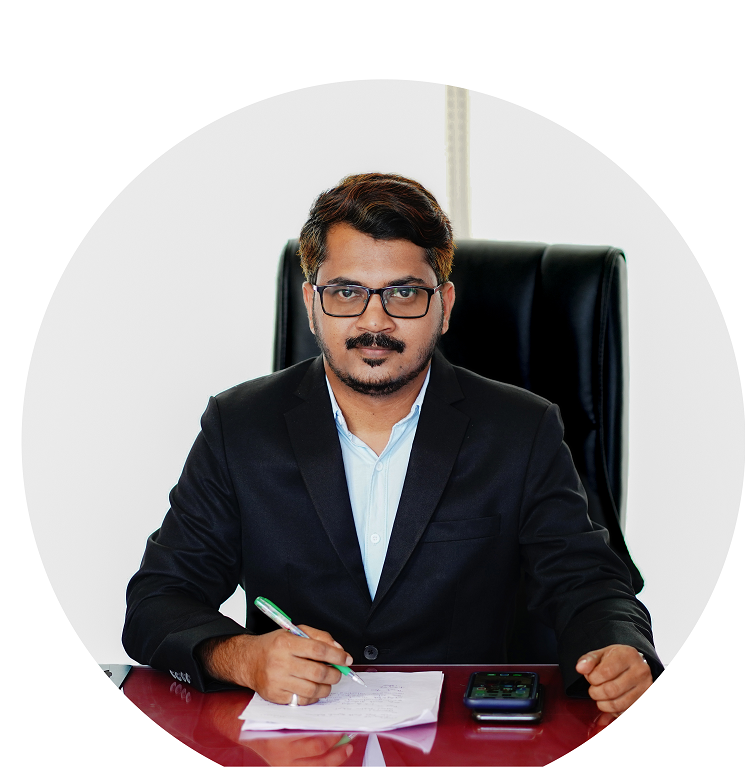
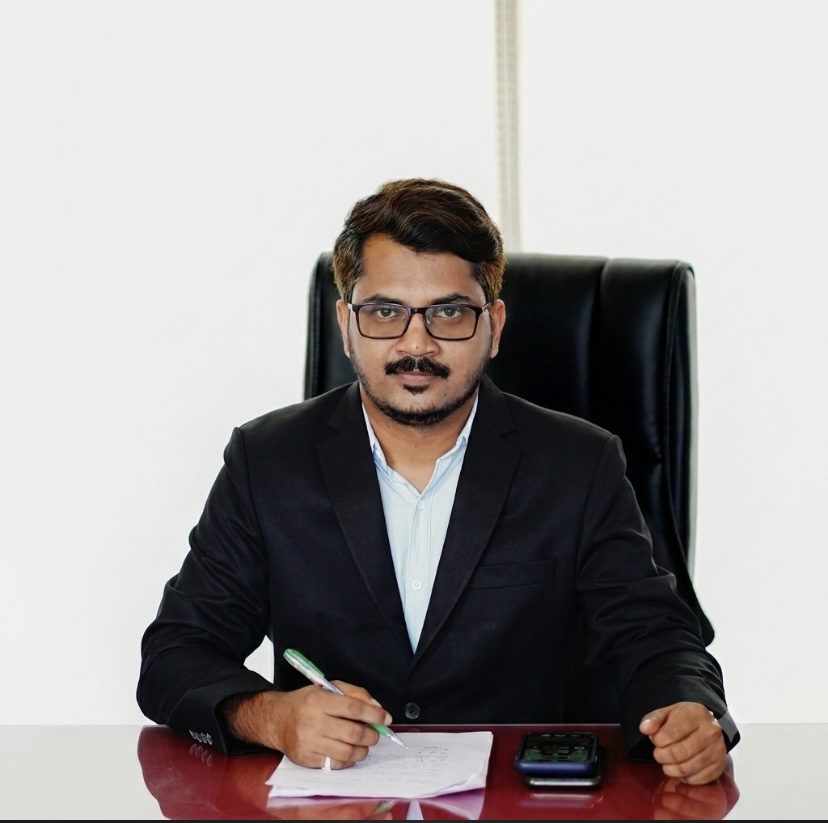
Update index.html minor text details and add generated invoice HTML and PDF

diff --git a/index.html b/index.html
@@ -2221,7 +2221,7 @@
               <div class="leader-highlights">
                 <span class="tag">12+ Yrs Experience</span>
                 <span class="tag">M.Sc. Psychology</span>
-                <span class="tag">M.Ed. &amp; B.Ed.</span>
+                <span class="tag">M. Ed. &amp; B.Ed.</span>
               </div>
               <ul class="leader-details">
                 <li><strong>Education &mdash;</strong> M.Sc. Psychology (Annamalai University, Chidambaram); M.A.